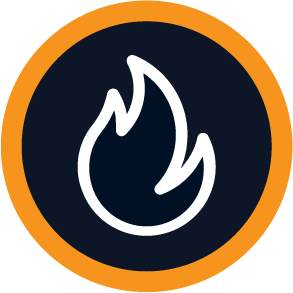
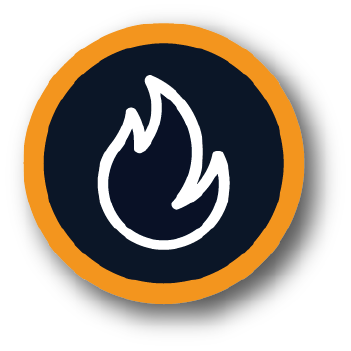
changed shadow and css

diff --git a/index.html b/index.html
@@ -1,100 +1,99 @@
 <!DOCTYPE html>
 <html lang="en">
-	<head>
-		<meta charset="UTF-8">
-		<meta name="viewport" content="width=device-width,height=device-height,initial-scale=1.0" />
-		<link rel="shortcut icon" href="favicon.ico" type="image/x-icon">
-		<link rel="icon" href="favicon.ico" type="image/x-icon">
-		<link rel="stylesheet" type="text/css" href="assets/styles/css/reset.css">
-		<link rel="stylesheet" href="https://cdnjs.cloudflare.com/ajax/libs/Swiper/4.5.0/css/swiper.css">
-		<link rel="stylesheet" type="text/css" href="assets/styles/css/main.css">
-		<link rel="stylesheet" type="text/css" href="assets/styles/css/animate.css">
-		<link rel="stylesheet" type="text/css" href="assets/styles/css/map.css">
-		<link href="assets/styles/css/hamburgers.css" rel="stylesheet">
-		<title>AT Explore Nearby</title>
-	</head>
-	<body>
-		<div id="phoneOverlay">
-			<div class="phoneTop"><img src="assets/images/phonetop.png" alt="phonetop"></div>
-			<div class="phoneLeft"><img src="assets/images/phoneleft.png" alt="phoneleft"></div>
-			<div class="phoneRight"><img src="assets/images/phoneright.png" alt="phoneright"></div>
-			<div class="phoneBottom"><img src="assets/images/phonebottom.png" alt="phonebottom"></div>
-		</div>
-		<div class="top"> </div>
-		<div class="bottom"> </div>
-		<div id="prototype">
-			<div id="splash" class="splash animated">
-				<div class="overlay">
-					<img src="assets/images/overlay.svg" alt="overlay">
-				</div>
-				<div class="logo">
-					<img src="assets/images/logo.svg" alt="logo">
-				</div>
-				<h1>Kia Ora</h1>
-				<h2>Lets Explore Auckland</h2>
+
+<head>
+	<meta charset="UTF-8">
+	<meta name="viewport" content="width=device-width,height=device-height,initial-scale=1.0" />
+	<link rel="shortcut icon" href="favicon.ico" type="image/x-icon">
+	<link rel="icon" href="favicon.ico" type="image/x-icon">
+	<link rel="stylesheet" type="text/css" href="assets/styles/css/reset.css">
+	<link rel="stylesheet" href="https://cdnjs.cloudflare.com/ajax/libs/Swiper/4.5.0/css/swiper.css">
+	<link rel="stylesheet" type="text/css" href="assets/styles/css/main.css">
+	<link rel="stylesheet" type="text/css" href="assets/styles/css/animate.css">
+	<link rel="stylesheet" type="text/css" href="assets/styles/css/map.css">
+	<link href="assets/styles/css/hamburgers.css" rel="stylesheet">
+	<title>AT Explore Nearby</title>
+</head>
+
+<body>
+	<div id="phoneOverlay">
+		<div class="phoneTop"><img src="assets/images/phonetop.png" alt="phonetop"></div>
+		<div class="phoneLeft"><img src="assets/images/phoneleft.png" alt="phoneleft"></div>
+		<div class="phoneRight"><img src="assets/images/phoneright.png" alt="phoneright"></div>
+		<div class="phoneBottom"><img src="assets/images/phonebottom.png" alt="phonebottom"></div>
+	</div>
+	<div class="top"> </div>
+	<div class="bottom"> </div>
+	<div id="prototype">
+		<div id="splash" class="splash animated">
+			<div class="overlay">
+				<img src="assets/images/overlay.svg" alt="overlay">
 			</div>
-			<nav id="navigation">
-				<ul class="flex">
-					<li><button class="hamburger hamburger--slider" type="button" id="menuBtn">
+			<div class="logo">
+				<img src="assets/images/logo.svg" alt="logo">
+			</div>
+			<h1>Kia Ora</h1>
+			<h2>Lets Explore Auckland</h2>
+		</div>
+		<nav id="navigation">
+			<ul class="flex">
+				<li><button class="hamburger hamburger--slider" type="button" id="menuBtn">
 						<span class="hamburger-box">
 							<span class="hamburger-inner"></span>
 						</span>
 					</button></li>
-					<li id="typeText">
-						<p id="breakLines"></p>
-					</li>
-					<li id="trendingFilter"><a href="#"><img src="assets/images/fire.svg" alt="trending"></a></li>
+				<li id="typeText">
+					<p id="breakLines"></p>
+				</li>
+				<li id="trendingFilter"><a href="#"><img src="assets/images/fire.svg" alt="trending"></a></li>
+			</ul>
+			<div id="menuOpen" class="menuOpen hide">
+				<ul class="menuOptions">
+					<li class="menuLinks animated fadeInLeft slow" id="trending">Trending</li>
+					<li class="menuLinks animated fadeInLeft slow">Search</li>
+					<li class="menuLinks animated fadeInLeft slow">Events</li>
+					<li class="menuLinks animated fadeInLeft slow">Deals</li>
 				</ul>
-				<div id="menuOpen" class="menuOpen hide">
-					<ul class="menuOptions">
-						<li class="menuLinks animated fadeInLeft slow" id="trending">Trending</li>
-						<li class="menuLinks animated fadeInLeft slow">Search</li>
-						<li class="menuLinks animated fadeInLeft slow">Events</li>
-						<li class="menuLinks animated fadeInLeft slow">Deals</li>
-					</ul>
-					<div class="menuRail animated fadeInDown">
-						<img src="assets/images/menurail.svg" alt="menurail">
-					</div>
+				<div class="menuRail animated fadeInDown">
+					<img src="assets/images/menurail.svg" alt="menurail">
 				</div>
-			</nav>
-			<section id="panel" class="panels">
-				<div class="swiper-container">
-					<!-- Additional required wrapper -->
-					<div class="swiper-wrapper">
-						<!-- Slides -->
-						<div id="foodFilter" class="swiper-slide"><img src="assets/images/menurestr.png"
-							alt="foodFilter">
-						</div>
-						<div id="landmarkFilter" class="swiper-slide"><img src="assets/images/menusights.png"
+			</div>
+		</nav>
+		<div id="panel" class="panels">
+			<div class="swiper-container">
+				<!-- Additional required wrapper -->
+				<div class="swiper-wrapper">
+					<!-- Slides -->
+					<div id="foodFilter" class="swiper-slide"><img src="assets/images/menurestr.png" alt="foodFilter">
+					</div>
+					<div id="landmarkFilter" class="swiper-slide"><img src="assets/images/menusights.png"
 							alt="landmarkFilter">
-						</div>
-						<div id="drinkFilter" class="swiper-slide"><img src="assets/images/menubar.png" alt="drinkFilter"
-							>
-						</div>
-						<div id="hotelFilter" class="swiper-slide"><img src="assets/images/menuaccom.png"
-							alt="hotelFilter">
-						</div>
+					</div>
+					<div id="drinkFilter" class="swiper-slide"><img src="assets/images/menubar.png" alt="drinkFilter">
+					</div>
+					<div id="hotelFilter" class="swiper-slide"><img src="assets/images/menuaccom.png" alt="hotelFilter">
 					</div>
 				</div>
-			</section>
-			<div id="map"></div>
-			<!-- Slider main container -->
-			<div id="infoMenuContainer" class="hide">
-				<div class="infoMenu">
-					<div id="busArrow" class="infoMenuTop container">
-						<div class="findTransport">Find Transport</div>
-						<div class="busArrow"><img src="assets/images/busarrow.png" alt="busarrow"></div>
-					</div>
-					<div id="mapArrow" class="infoMenuLow container">
-						<div class="mapArrow"><img src="assets/images/maparrow.png" alt="maparrow"></div>
-						<div class="backMap">Back to Map</div>
-					</div>
+			</div>
+		</div>
+		<div id="map"></div>
+		<!-- Slider main container -->
+		<div id="infoMenuContainer" class="hide">
+			<div class="infoMenu">
+				<div id="busArrow" class="infoMenuTop container">
+					<div class="findTransport">Find Transport</div>
+					<div class="busArrow"><img src="assets/images/busarrow.png" alt="busarrow"></div>
 				</div>
-				<div class="infoMenuOpen">
-					<div id="pullBtn" class="pullTab"><img src="assets/images/tab.svg" alt="tag"></div>
-					<div class="infoMenuBody container">
-						<!-- Gareth -->
-						<script id="infoMenuData" type="text/x-handlebars-template">
+				<div id="mapArrow" class="infoMenuLow container">
+					<div class="mapArrow"><img src="assets/images/maparrow.png" alt="maparrow"></div>
+					<div class="backMap">Back to Map</div>
+				</div>
+			</div>
+			<div class="infoMenuOpen">
+				<div id="pullBtn" class="pullTab"><img src="assets/images/tab.svg" alt="tag"></div>
+				<div class="infoMenuBody container">
+					<!-- Gareth -->
+					<script id="infoMenuData" type="text/x-handlebars-template">
 						{{#if response.venue.rating}}
 						<div class="venueRating">
 								{{response.venue.rating}}/10
@@ -153,58 +152,59 @@
 								<a href="https://www.google.com/maps/dir/Current+Location/{{response.venue.location.lat}},{{response.venue.location.lng}}"><img src="assets/images/directions.svg"></a>
 						</div>
 						</script>
-						<!-- Gareth -->
-					</div>
+					<!-- Gareth -->
 				</div>
 			</div>
-			<!-- Bus menu -->
+		</div>
+		<!-- Bus menu -->
 
-			<div id="busMenuContainer" class="hide">
-				<div class="busMenu">
-					<div class="busMenuLow container">
-						<div class="busMapArrow"><img src="assets/images/maparrow.png" alt="maparrow"></div>
-						<div class="backMap">Search Again</div>
-					</div>
+		<div id="busMenuContainer" class="hide">
+			<div class="busMenu">
+				<div class="busMenuLow container">
+					<div class="busMapArrow"><img src="assets/images/maparrow.png" alt="maparrow"></div>
+					<div class="backMap">Search Again</div>
 				</div>
+			</div>
 
 			<div class="busMenuOpen">
-					<div id="busPullBtn" class="busPullTab"><img src="assets/images/tab.svg" alt="tag"></div>
-					<div class="busMenuBody container">
+				<div id="busPullBtn" class="busPullTab"><img src="assets/images/tab.svg" alt="tag"></div>
+				<div class="busMenuBody container">
 
-						<div class="busInfoHeading">
+					<div class="busInfoHeading">
 						<div class="busInfoIcon"><img src="assets/images/businfo.svg" alt="maparrow"></div>
 						<div class="busInfoTitle">Travel Information</div>
-						</div>
-
-						<p>Your information here</p>
-
 					</div>
-		
-					</div>
+
+					<p>Your information here</p>
+
+				</div>
+
 			</div>
-
-			<!-- Bus menu -->
 		</div>
-		<!-- Jquery -->
-		<script src="https://ajax.googleapis.com/ajax/libs/jquery/1.9.0/jquery.min.js"></script>
-		<!-- Google Maps -->
-		<script async defer
+
+		<!-- Bus menu -->
+	</div>
+	<!-- Jquery -->
+	<script src="https://ajax.googleapis.com/ajax/libs/jquery/1.9.0/jquery.min.js"></script>
+	<!-- Google Maps -->
+	<script async defer
 		src="https://maps.googleapis.com/maps/api/js?key=AIzaSyADMD9LFOQbB8gF8HctWzlQipyitCIdhZo&callback=initMap"></script>
-		<!-- Map & Foursquare -->
-		<script src="assets/scripts/foursquare.js"></script>
-		<!-- Handlebars -->
-		<script src="https://cdnjs.cloudflare.com/ajax/libs/handlebars.js/4.1.1/handlebars.js"></script>
-		<!-- TypeIt -->
-		<script src="assets/scripts/typeit.min.js"></script>
-		<!-- Swiper -->
-		<script src="https://cdnjs.cloudflare.com/ajax/libs/Swiper/4.5.0/js/swiper.js"></script>
-		<!-- Header -->
-		<script src="assets/scripts/header.js"></script>
-		<!-- Main script -->
-		<script src="assets/scripts/main.js"></script>
-		<!-- Transport script -->
-		<script src="assets/scripts/transport.js"></script>
-		<!-- Filter script -->
-		<script src="assets/scripts/filter.js"></script>
-	</body>
+	<!-- Map & Foursquare -->
+	<script src="assets/scripts/foursquare.js"></script>
+	<!-- Handlebars -->
+	<script src="https://cdnjs.cloudflare.com/ajax/libs/handlebars.js/4.1.1/handlebars.js"></script>
+	<!-- TypeIt -->
+	<script src="assets/scripts/typeit.min.js"></script>
+	<!-- Swiper -->
+	<script src="https://cdnjs.cloudflare.com/ajax/libs/Swiper/4.5.0/js/swiper.js"></script>
+	<!-- Header -->
+	<script src="assets/scripts/header.js"></script>
+	<!-- Main script -->
+	<script src="assets/scripts/main.js"></script>
+	<!-- Transport script -->
+	<script src="assets/scripts/transport.js"></script>
+	<!-- Filter script -->
+	<script src="assets/scripts/filter.js"></script>
+</body>
+
 </html>

diff --git a/assets/scripts/foursquare.js b/assets/scripts/foursquare.js
@@ -93,7 +93,9 @@ function initMap() {
 
     var location = new google.maps.Marker({
         position: { lat: +latUser1, lng: +lngUser1 }, map: map,
-        icon: icon
+        icon: icon,
+        zIndex: 999,
+        animation: google.maps.Animation.DROP
     });
 
     var infoWindow = new google.maps.InfoWindow({
